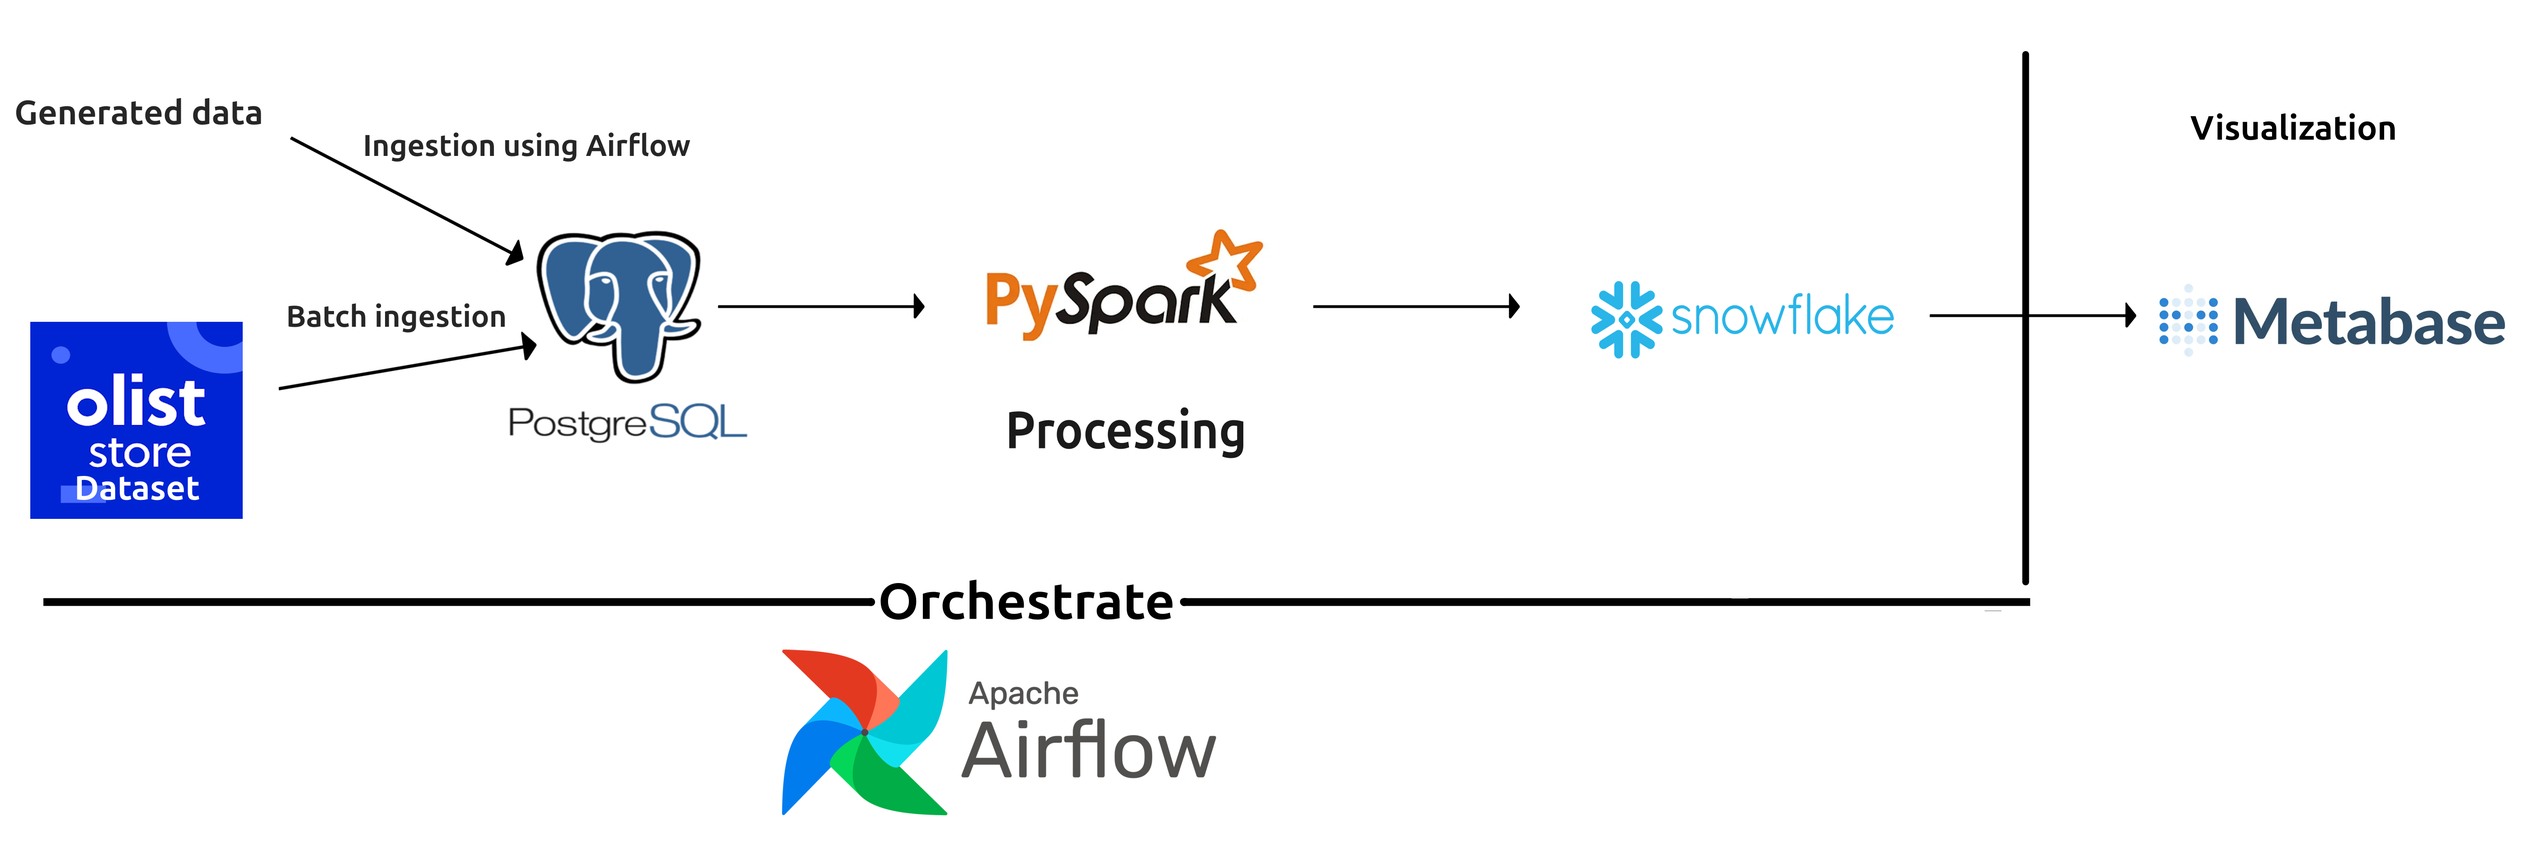
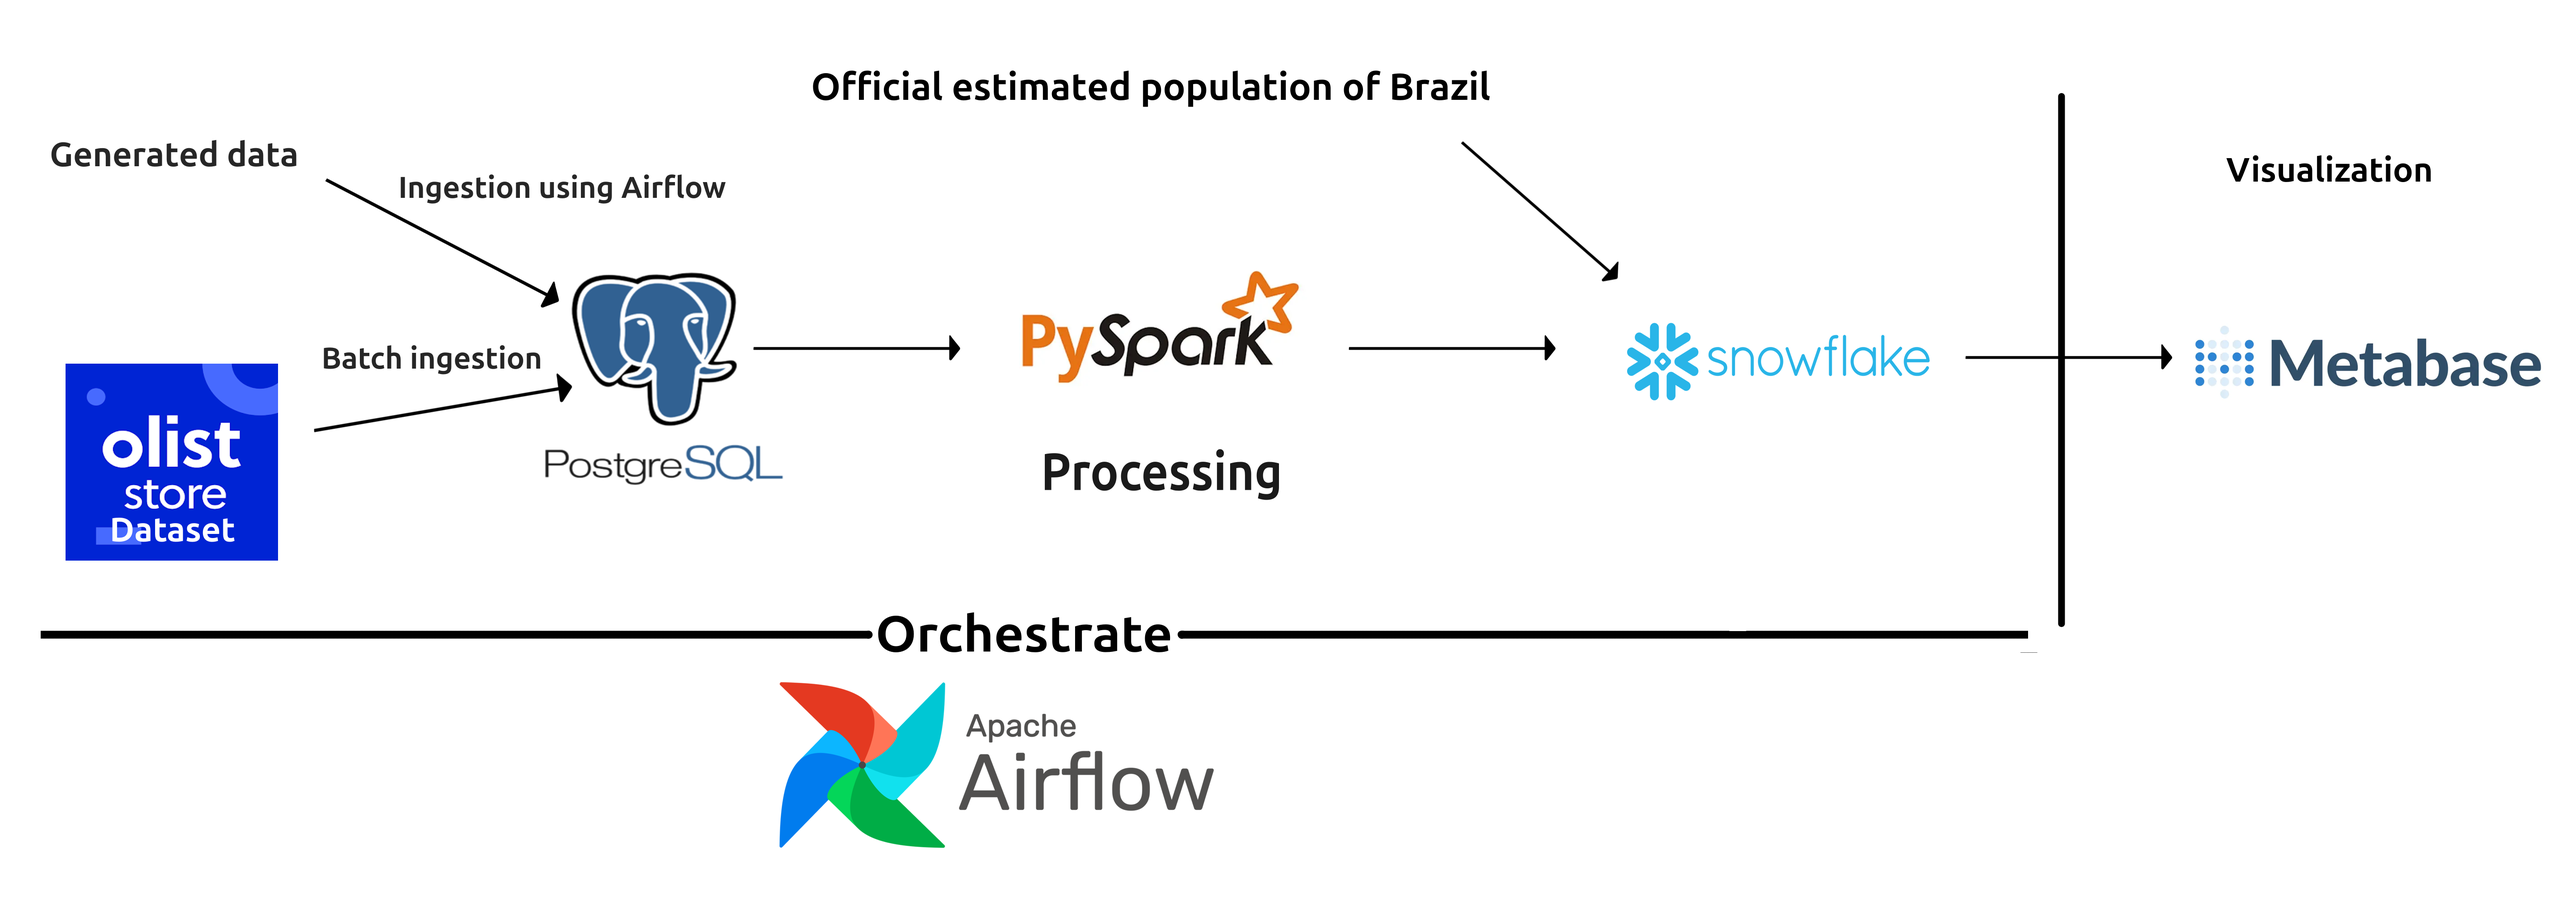
update README with info about the populatino DAG

diff --git a/README.md b/README.md
@@ -5,19 +5,16 @@
 ![Architecture pipeline](images/etl_diagram.png)
 The data is first injected inside PostgreSQL using CSV files taken from the public dataset released by OList. A few DAGs are also scheduled using Airflow to run periodically, inserting mock data generated using Python scripts.
 
+Pyspark then processes the data. A few changes are done, such as transforming the database to resemble a snowflake schema, dropping unnecessary or duplicate columns, and computing the dimensions of the products into volume. The dates for the generated data are also adjusted to match the dates of the original dataset. The data is then loaded to Snowflake.
 
-Pyspark then processes the data. A few changes are done, such as transforming the database to resemble a snowflake schema, dropping unnecessary or duplicate columns, and computing the dimensions of the products into volume.
-The data is then loaded to Snowflake.
+For more accurate statistics, the population of Brazil is pulled using FTP, converted from xls to a table and inserted into Snowflake. This DAG is set to run yearly.
 
 Postgres, Airflow and Pyspark each have their own docker container. In the case of Pyspark, its container is started by Airflow.
 
 ## Visualization
 I also used Metabase to create dashboards in order to better visualize and understand the data.
 
-<p float="left">
-  <img src="images/orders_dashboard.png" width="600" />
-  <img src="images/customers_dashboard.png" width="600" /> 
-</p>
+![alt-text-1](images/orders_dashboard.png "title-1") ![alt-text-2](images/customers_dashboard.png "title-2")
 
 ## Project structure
 ```
@@ -26,7 +23,9 @@ ecommerce
 │   ├── dag_gen_order.py
 │   ├── dag_gen_products.py
 │   ├── dag_pyspark.py
+│   ├── dag_get_brazil_population.py
 │   └── utils
+|       ├── get_brazil_population.py
 │       └── get_random_entries.py
 ├── docker
 │   └── Pyspark
